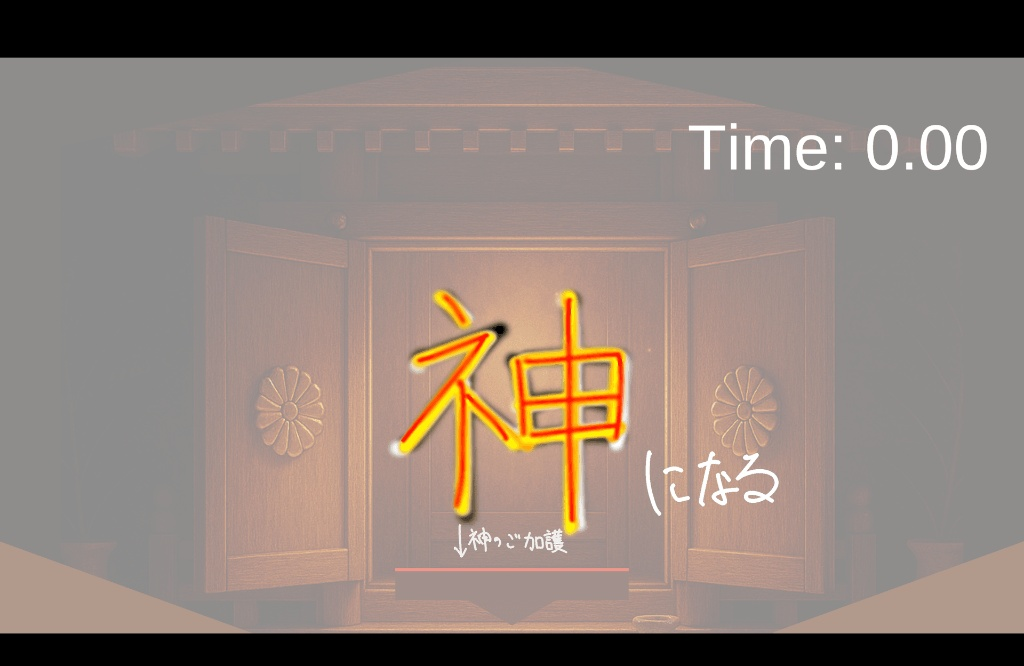
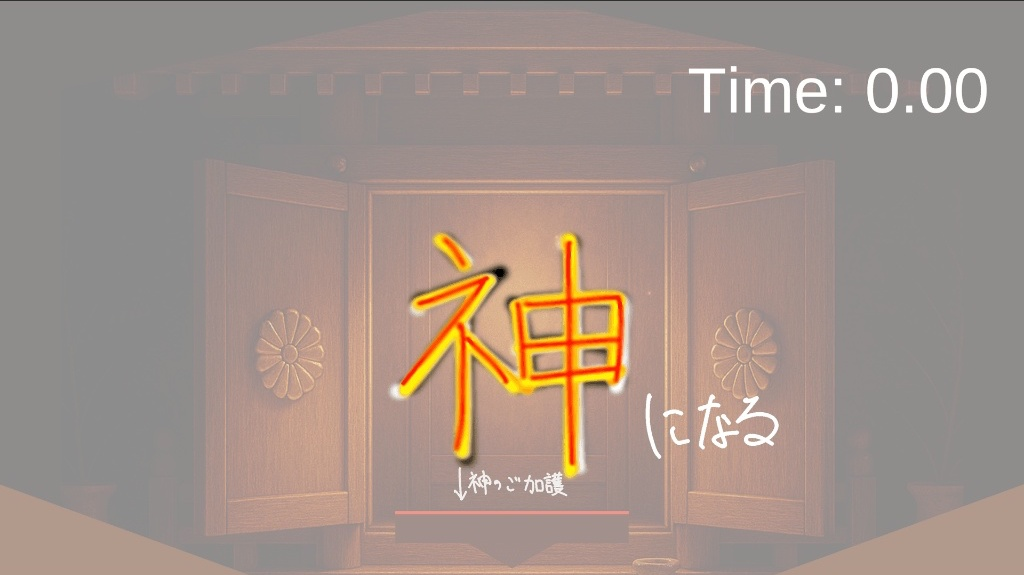
作品一覧タグと拡大カード導線を整備し、ファビコンを設定
ジャンル・ハイライトを data/content.js から表示できるようにし、モーダルの外部リンクボタンを拡大。タイトル画像の更新と Cashew3 ファビコン指定も含む。

diff --git a/style.css b/style.css
@@ -3491,6 +3491,21 @@
   .card-back-actions .card-service-btns {
     justify-content: flex-end;
   }
+
+  .grid-focus-mount .modal-panel .card-service-btns {
+    gap: 12px;
+  }
+  .grid-focus-mount .modal-panel .card-service-btn {
+    width: 76px;
+    height: 76px;
+    border-radius: 16px;
+    font-size: 34px;
+  }
+  .grid-focus-mount .modal-panel .card-service-btn--notion { font-size: 40px; }
+  .grid-focus-mount .modal-panel .card-service-btn--qiita { font-size: 30px; }
+  .grid-focus-mount .modal-panel .card-service-btn--github { font-size: 36px; }
+  .grid-focus-mount .modal-panel .card-service-btn--topaz { font-size: 40px; }
+  .grid-focus-mount .modal-panel .card-service-btn--deploy { font-size: 36px; }
   
   @media (max-width: 720px) {
     .grid-focus-mount { height: min(88vh, 680px); }
@@ -3792,6 +3807,35 @@
     background: rgba(255, 255, 255, 0.94); color: var(--stage-primary, var(--accent));
     box-shadow: 0 3px 10px rgba(20, 24, 32, 0.2);
   }
+  .gt-tags {
+    position: absolute; top: 10px; right: 10px; z-index: 4;
+    display: flex; flex-wrap: wrap; justify-content: flex-end; gap: 4px;
+    max-width: min(68%, 220px);
+    pointer-events: none;
+  }
+  .gt-tag {
+    font-family: var(--font-mono);
+    font-size: 9px;
+    letter-spacing: 0.05em;
+    line-height: 1.2;
+    border-radius: 999px;
+    padding: 4px 8px;
+    white-space: nowrap;
+    box-shadow: 0 2px 8px rgba(20, 24, 32, 0.18);
+  }
+  .gt-tag--genre {
+    background: rgba(255, 255, 255, 0.96);
+    color: var(--stage-primary, var(--accent));
+    border: 1px solid color-mix(in srgb, var(--stage-primary, var(--accent)) 40%, #fff);
+    font-weight: 700;
+  }
+  .gt-tag--highlight {
+    background: rgba(20, 24, 32, 0.78);
+    color: #fff;
+    border: 1px solid rgba(255, 255, 255, 0.28);
+  }
+  .grid-tile--sm .gt-tag--highlight { display: none; }
+  .grid-tile--sm .gt-tags { max-width: 72%; }
   .gt-info {
     position: absolute; left: 0; right: 0; bottom: 0; z-index: 3;
     display: flex; flex-direction: column; gap: 5px;
@@ -3816,12 +3860,14 @@
   .grid-tile--sm .gt-kana, .grid-tile--sm .gt-award { display: none; }
   .grid-tile--sm .gt-info { padding: 11px 12px; }
   .gt-cta {
-    position: absolute; top: 10px; right: 10px; z-index: 3;
+    position: absolute; top: auto; bottom: 58px; right: 10px; z-index: 3;
     font-family: var(--font-mono); font-size: 10px; letter-spacing: 0.08em; color: #fff;
     background: rgba(20, 24, 32, 0.5); border: 1px solid rgba(255, 255, 255, 0.4);
     border-radius: 999px; padding: 4px 9px;
-    opacity: 0; transform: translateY(-4px); transition: opacity 0.2s, transform 0.2s;
+    opacity: 0; transform: translateY(4px); transition: opacity 0.2s, transform 0.2s;
   }
+  .grid-tile--lg .gt-cta { bottom: 88px; }
+  .grid-tile--sm .gt-cta { bottom: 44px; }
   .grid-tile:hover .gt-cta { opacity: 1; transform: translateY(0); }
 
   

diff --git a/data/content.js b/data/content.js
@@ -9,6 +9,8 @@
  *     - dateLabel: optional custom display string
  *   tier = 'finalist' | 'major' | 'award' for visual weight.
  *   weight = 'lg' | 'md' | 'sm' for 作品一覧 gallery tile size.
+ *   genre = 作品一覧タイル右上に表示するジャンル（例: ゲーム / WEBアプリ）
+ *   highlights[] = 作品一覧タイル右上の補助タグ（例: 設計 / パフォーマンスチューニング）
  */
 
 window.PORTFOLIO_DATA = {
@@ -23,6 +25,8 @@ projects: [
   {
     id: 'yubisoccer',
     title: 'ゆびサッカー',
+    genre: 'ゲーム',
+    highlights: ['パフォーマンスチューニング', '設計'],
     weight: 'lg',
     featured: false,
     fallback: 'YUBI SOCCER',
@@ -55,6 +59,8 @@ projects: [
   {
     id: 'streamerio',
     title: 'Streamerio',
+    genre: 'ゲーム',
+    highlights: ['設計'],
     weight: 'lg',
     featured: false,
     fallback: 'STREAMERIO',
@@ -88,6 +94,8 @@ projects: [
   {
     id: 'gricon',
     title: 'GriCon',
+    genre: 'ゲーム',
+    highlights: ['設計'],
     weight: 'md',
     featured: false,
     fallback: 'GRICON',
@@ -113,6 +121,8 @@ projects: [
   {
     id: 'kanscream',
     title: 'KANSCREAM',
+    genre: 'ゲーム',
+    highlights: ['設計'],
     weight: 'md',
     featured: false,
     fallback: 'KANSCREAM',
@@ -138,6 +148,8 @@ projects: [
   {
     id: 'eiinmado',
     title: '詠印魔道',
+    genre: '体験型アトラクション',
+    highlights: ['設計'],
     weight: 'md',
     featured: false,
     fallback: 'EIINMADO',
@@ -163,6 +175,8 @@ projects: [
   {
     id: 'ema',
     title: 'E-ma',
+    genre: 'プロジェクションマッピング',
+    highlights: ['体験型アトラクション'],
     weight: 'md',
     featured: false,
     fallback: 'E-MA',
@@ -188,6 +202,8 @@ projects: [
   {
     id: 'kami',
     title: '神は人々の命を落とさない',
+    genre: 'ゲーム',
+    highlights: ['設計'],
     weight: 'md',
     featured: false,
     fallback: 'KAMI',
@@ -209,6 +225,7 @@ projects: [
   {
     id: 'capybara',
     title: 'カピバラゲーム',
+    genre: 'ゲーム',
     weight: 'sm',
     featured: false,
     fallback: 'CAPYBARA',
@@ -230,6 +247,8 @@ projects: [
   {
     id: 'talkscope',
     title: 'TalkScope',
+    genre: 'WEBアプリ',
+    highlights: ['設計'],
     weight: 'md',
     featured: false,
     fallback: 'TALKSCOPE',
@@ -253,6 +272,8 @@ projects: [
   {
     id: 'shuyu',
     title: 'イベント周遊促進アプリ',
+    genre: 'WEBアプリ',
+    highlights: ['バックエンド/インフラ', '設計'],
     weight: 'sm',
     featured: false,
     fallback: 'EVENT APP',
@@ -277,6 +298,8 @@ projects: [
   {
     id: 'magrat',
     title: 'MAGRAT',
+    genre: 'ゲーム',
+    highlights: ['設計'],
     weight: 'sm',
     featured: false,
     fallback: 'MAGRAT',

diff --git a/main.js b/main.js
@@ -304,6 +304,17 @@ function jumpBtnHTML(p, i) {
   `;
 }
 
+function gridTileTagsHTML(p) {
+  const genre = p.genre;
+  const highlights = p.highlights ?? [];
+  if (!genre && !highlights.length) return '';
+
+  const genreTag = genre ? `<span class="gt-tag gt-tag--genre">${esc(genre)}</span>` : '';
+  const highlightTags = highlights.map((h) => `<span class="gt-tag gt-tag--highlight">${esc(h)}</span>`).join('');
+
+  return `<span class="gt-tags" aria-label="ジャンル・タグ">${genreTag}${highlightTags}</span>`;
+}
+
 function gridTileHTML(p, i) {
   const t = p.theme;
   const tv = projectThemeVars(p);
@@ -326,6 +337,7 @@ function gridTileHTML(p, i) {
         <span class="gt-wash" aria-hidden="true"></span>
       </span>
       <span class="gt-num">${num}</span>
+      ${gridTileTagsHTML(p)}
       <span class="gt-info">
         <span class="gt-kana">${esc(p.fallback)}</span>
         <span class="gt-title">${esc(p.title)}</span>

diff --git a/index.html b/index.html
@@ -8,6 +8,8 @@
   <meta property="og:title" content="Akihide Mikami | Game Client Engineer">
   <meta property="og:description" content="設計は、チームの乗数。企画・設計・実装・マネジメントを同時にこなすプレイングディレクター型エンジニア。">
   <meta property="og:type" content="website">
+  <link rel="icon" href="./images/Cashew3.png" type="image/png">
+  <link rel="apple-touch-icon" href="./images/Cashew3.png">
   <link rel="preconnect" href="https://fonts.googleapis.com">
   <link rel="preconnect" href="https://fonts.gstatic.com" crossorigin>
   <link href="https://fonts.googleapis.com/css2?family=DotGothic16&family=Zen+Kaku+Gothic+New:wght@500;700;900&family=Noto+Sans+JP:wght@400;700&family=IBM+Plex+Mono:wght@400;600&family=Syne:wght@700;800&display=swap" rel="stylesheet">